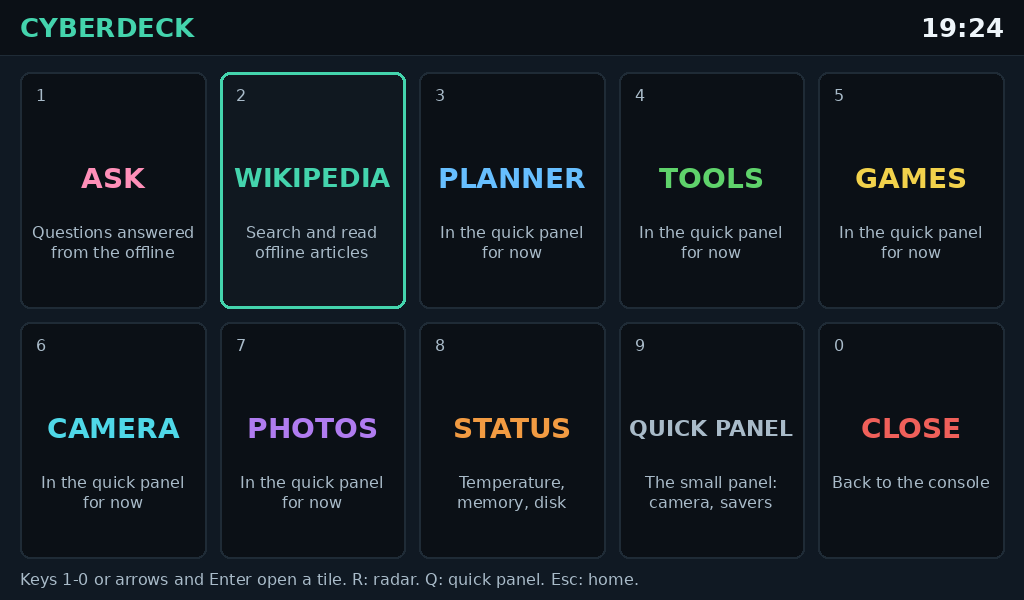
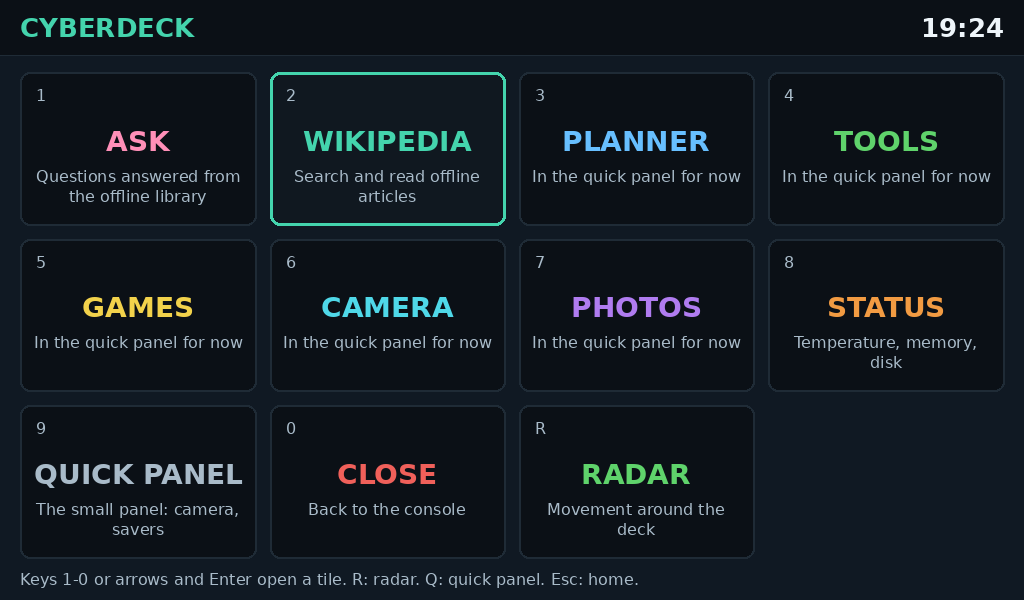
Add a RADAR tile to the main app home
The home is now a 4x3 grid: keys 1-0 still open the first ten tiles and
RADAR is the eleventh (R). The empty twelfth cell isn't tappable and the
arrows skip it. A smaller fallback font keeps QUICK PANEL inside its tile
at 800x480.

Claude-Session: https://claude.ai/code/session_016w3uQjEr2ZwcCKuYp4Kst7

diff --git a/main_app.py b/main_app.py
@@ -23,7 +23,7 @@ from panel_app import ACCENT, BG, BLUE, CYAN, DANGER, GREEN, MUTED, ORANGE, PURP
 from panel_tools.backend import Backend
 from panel_tools.keyboard import Keyboard
 from panel_tools.main_pages import AskPage, WikiPage
-from panel_tools.radar_page import RadarPage
+from panel_tools.radar_page import FAN, RadarPage
 from panel_tools.runtime import data_home
 
 HERE = Path(__file__).resolve().parent
@@ -33,19 +33,21 @@ FOOTER = 34
 TITLE, LABEL, BODY, SMALL = font(26, bold=True), font(28, bold=True), font(20), font(16)
 BIG = font(40, bold=True)
 READ, READ_LINE, SMALL_BOLD = font(22), 31, font(18, bold=True)  # Article and answer text.
-TILE_FONTS = (LABEL, TITLE, font(22, bold=True))
+TILE_FONTS = (LABEL, TITLE, font(22, bold=True), SMALL_BOLD)
 # (label, key, colour, where): where is 'here' for a page drawn by this app, or the quick
 # panel page that opens it until it moves here.
 TILES = (('ASK', 'ask', '#ff8fb8', 'here'), ('WIKIPEDIA', 'wiki', ACCENT, 'here'),
          ('PLANNER', 'planner', BLUE, 'planner'), ('TOOLS', 'tools', GREEN, 'tools'),
          ('GAMES', 'games', YELLOW, 'games'), ('CAMERA', 'camera', CYAN, 'camera'),
          ('PHOTOS', 'photos', PURPLE, 'photos'), ('STATUS', 'status', ORANGE, 'here'),
-         ('QUICK PANEL', 'quick', MUTED, 'home'), ('CLOSE', 'close', RED, 'here'))
-TILE_KEYS = '1234567890'
+         ('QUICK PANEL', 'quick', MUTED, 'home'), ('CLOSE', 'close', RED, 'here'),
+         ('RADAR', 'radar', FAN, 'here'))
+TILE_KEYS = '1234567890R'  # R is also handled on its own, so lower-case r works too.
 NOTES = {'ask': 'Questions answered from the offline library', 'wiki': 'Search and read offline articles',
          'status': 'Temperature, memory, disk', 'quick': 'The small panel: camera, savers',
-         'close': 'Back to the console'}
+         'close': 'Back to the console', 'radar': 'Movement around the deck'}
 LATER = 'In the quick panel for now'
+COLS = 4
 
 
 class Screen(panel.Framebuffer):
@@ -84,14 +86,14 @@ class Screen(panel.Framebuffer):
 
 
 def tile_rects(width, height):
-    """Five columns by two rows under the header."""
-    margin, gap, cols, rows = 20, 14, 5, 2
+    """Four columns by three rows under the header, one rect per tile (the last cell stays empty)."""
+    margin, gap, cols, rows = 20, 14, COLS, 3
     top, bottom = HEADER + 16, height - FOOTER - 8
     w = (width - 2*margin - (cols-1)*gap) / cols
     h = (bottom - top - (rows-1)*gap) / rows
     return [(round(margin + c*(w+gap)), round(top + r*(h+gap)),
              round(margin + c*(w+gap) + w), round(top + r*(h+gap) + h))
-            for r in range(rows) for c in range(cols)]
+            for r in range(rows) for c in range(cols)][:len(TILES)]
 
 
 def wrap(d, text, width, chosen):
@@ -185,10 +187,11 @@ def tile_at(size, x, y):
     return None
 
 
-def move(selected, key, count=len(TILES), cols=5):
+def move(selected, key, count=len(TILES), cols=None):
     """Arrow keys walk the tile grid; the first arrow press just shows the highlight."""
     if selected is None:
         return 0
+    cols = cols or COLS
     step = {'left': -1, 'right': 1, 'up': -cols, 'down': cols}[key]
     target = selected + step
     return target if 0 <= target < count else selected

diff --git a/tests/test_main_app.py b/tests/test_main_app.py
@@ -34,6 +34,21 @@ class LayoutTest(unittest.TestCase):
                     self.assertTrue(a[2] < b[0] or b[2] < a[0] or a[3] < b[1] or b[3] < a[1])
             self.assertEqual(main_app.tile_at(size, *rects[7][:2]), 7)
             self.assertIsNone(main_app.tile_at(size, 2, 2))
+            empty = rects[main_app.COLS - 1][0] + 5, rects[-1][1] + 5  # The 12th cell has no tile.
+            self.assertIsNone(main_app.tile_at(size, *empty))
+
+    def test_tile_labels_fit_their_tiles(self):
+        from PIL import Image, ImageDraw
+        d = ImageDraw.Draw(Image.new('RGB', (1, 1)))
+        for size in ((1024, 600), (800, 480)):
+            for rect, (label, *_) in zip(main_app.tile_rects(*size), main_app.TILES):
+                self.assertTrue(any(d.textlength(label, font=f) < rect[2]-rect[0]-20 for f in main_app.TILE_FONTS),
+                                (size, label))
+
+    def test_radar_is_the_eleventh_tile(self):
+        self.assertEqual(len(main_app.TILE_KEYS), len(main_app.TILES))
+        self.assertEqual(main_app.TILES[main_app.TILE_KEYS.index('R')][1], 'radar')
+        self.assertEqual(main_app.TILE_KEYS[:10], '1234567890')
 
     def test_pages_render_at_screen_size(self):
         state = {'stats': {'temp': '48.0 C', 'cpu': 12.0, 'ram': '1.2/3.7 GiB'}, 'backend': False,
@@ -46,8 +61,11 @@ class LayoutTest(unittest.TestCase):
     def test_arrows_walk_the_grid(self):
         self.assertEqual(main_app.move(None, 'right'), 0)  # First press shows the highlight.
         self.assertEqual(main_app.move(0, 'right'), 1)
-        self.assertEqual(main_app.move(1, 'down'), 6)
-        self.assertEqual(main_app.move(6, 'down'), 6)  # Stays on the grid.
+        self.assertEqual(main_app.move(1, 'down'), 5)
+        self.assertEqual(main_app.move(9, 'down'), 9)  # Stays on the grid.
+        self.assertEqual(main_app.move(7, 'down'), 7)  # The empty 12th cell is skipped.
+        self.assertEqual(main_app.move(10, 'right'), 10)
+        self.assertEqual(main_app.move(6, 'down'), 10)
         self.assertEqual(main_app.move(0, 'left'), 0)
 
     def test_quick_panel_handoff_opens_the_page_and_comes_back(self):

diff --git a/docs/MAIN-APP.md b/docs/MAIN-APP.md
@@ -28,7 +28,7 @@ running.
 | --- | --- |
 | `1` to `9`, `0` | Open that tile |
 | Arrows, then Enter | Pick a tile and open it |
-| `R` | Open RADAR |
+| `R` | Open RADAR (the 11th tile) |
 | `Q` | Open the quick panel |
 | Esc | Back to home |
 | Ctrl+C | Close the main app |
@@ -104,7 +104,7 @@ throttling) show in the header on every page.
 
 ![Radar in the main app (sample contacts, labelled SIMULATED)](previews/main-app-radar-preview.png)
 
-**RADAR** (`R` from home) shows an HLK-LD2450 radar like a heartbeat sensor. You're at the
+**RADAR** (its tile, or `R` from home) shows an HLK-LD2450 radar like a heartbeat sensor. You're at the
 bottom centre, and the fan covers what the radar sees: 6 m ahead and 60° to each side, with
 arcs at 2, 4 and 6 m. A sweep crosses the fan once a second.
 
